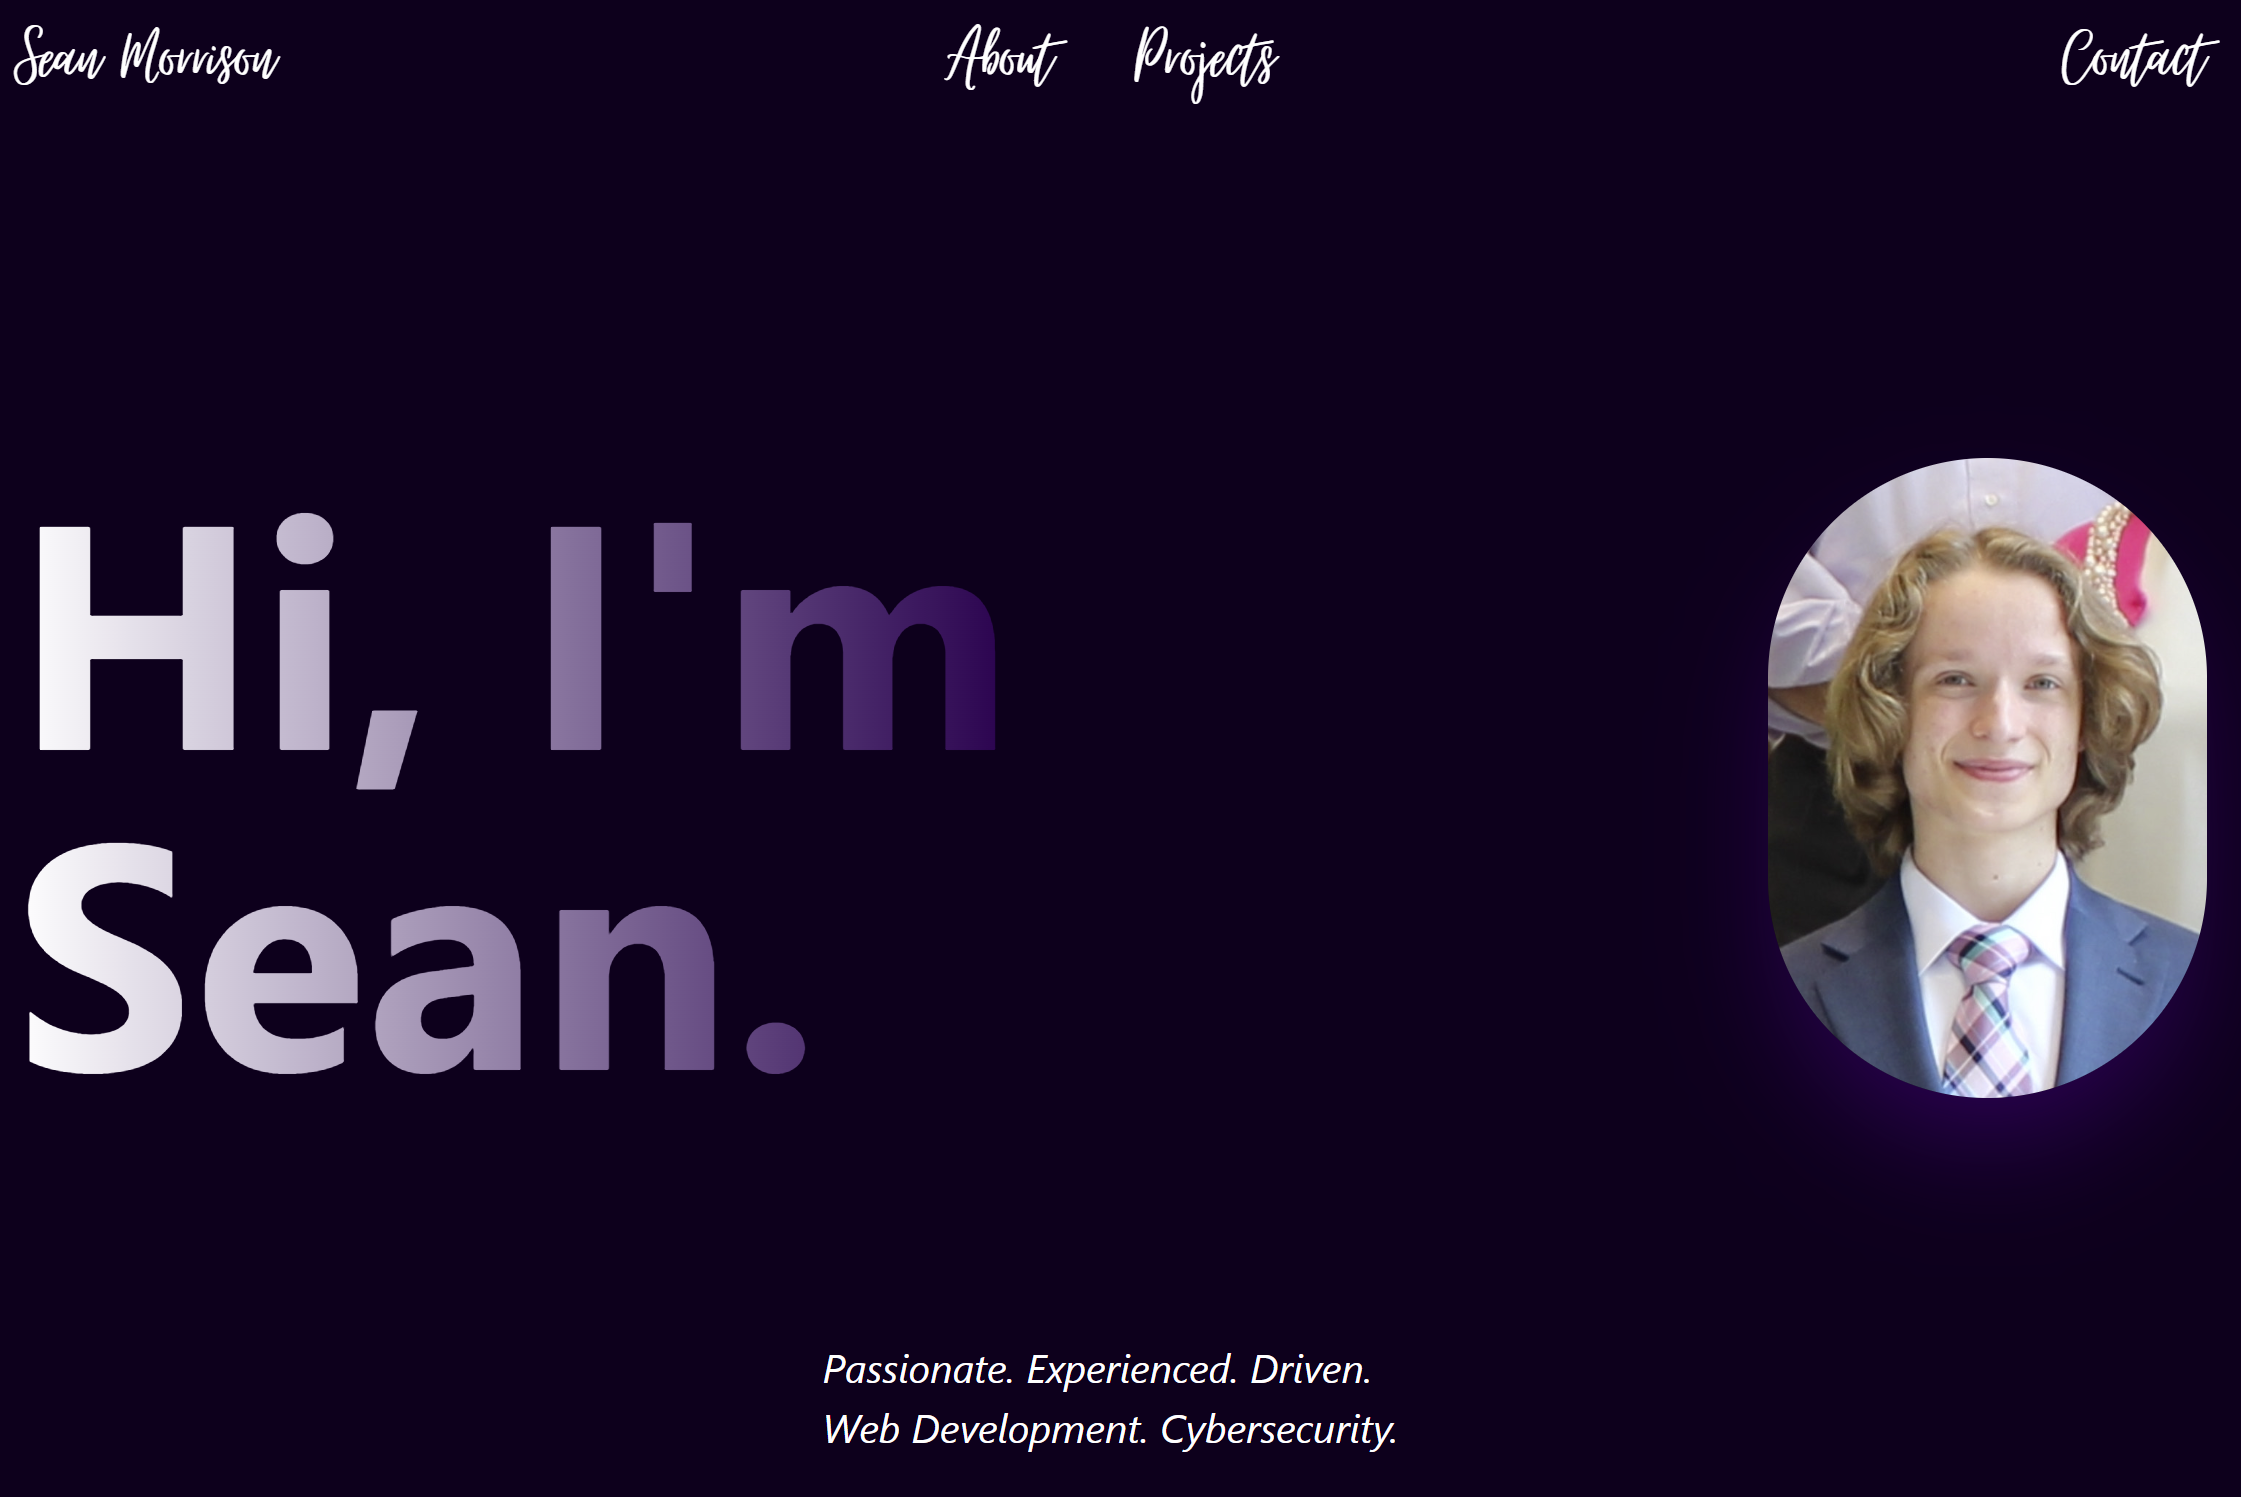
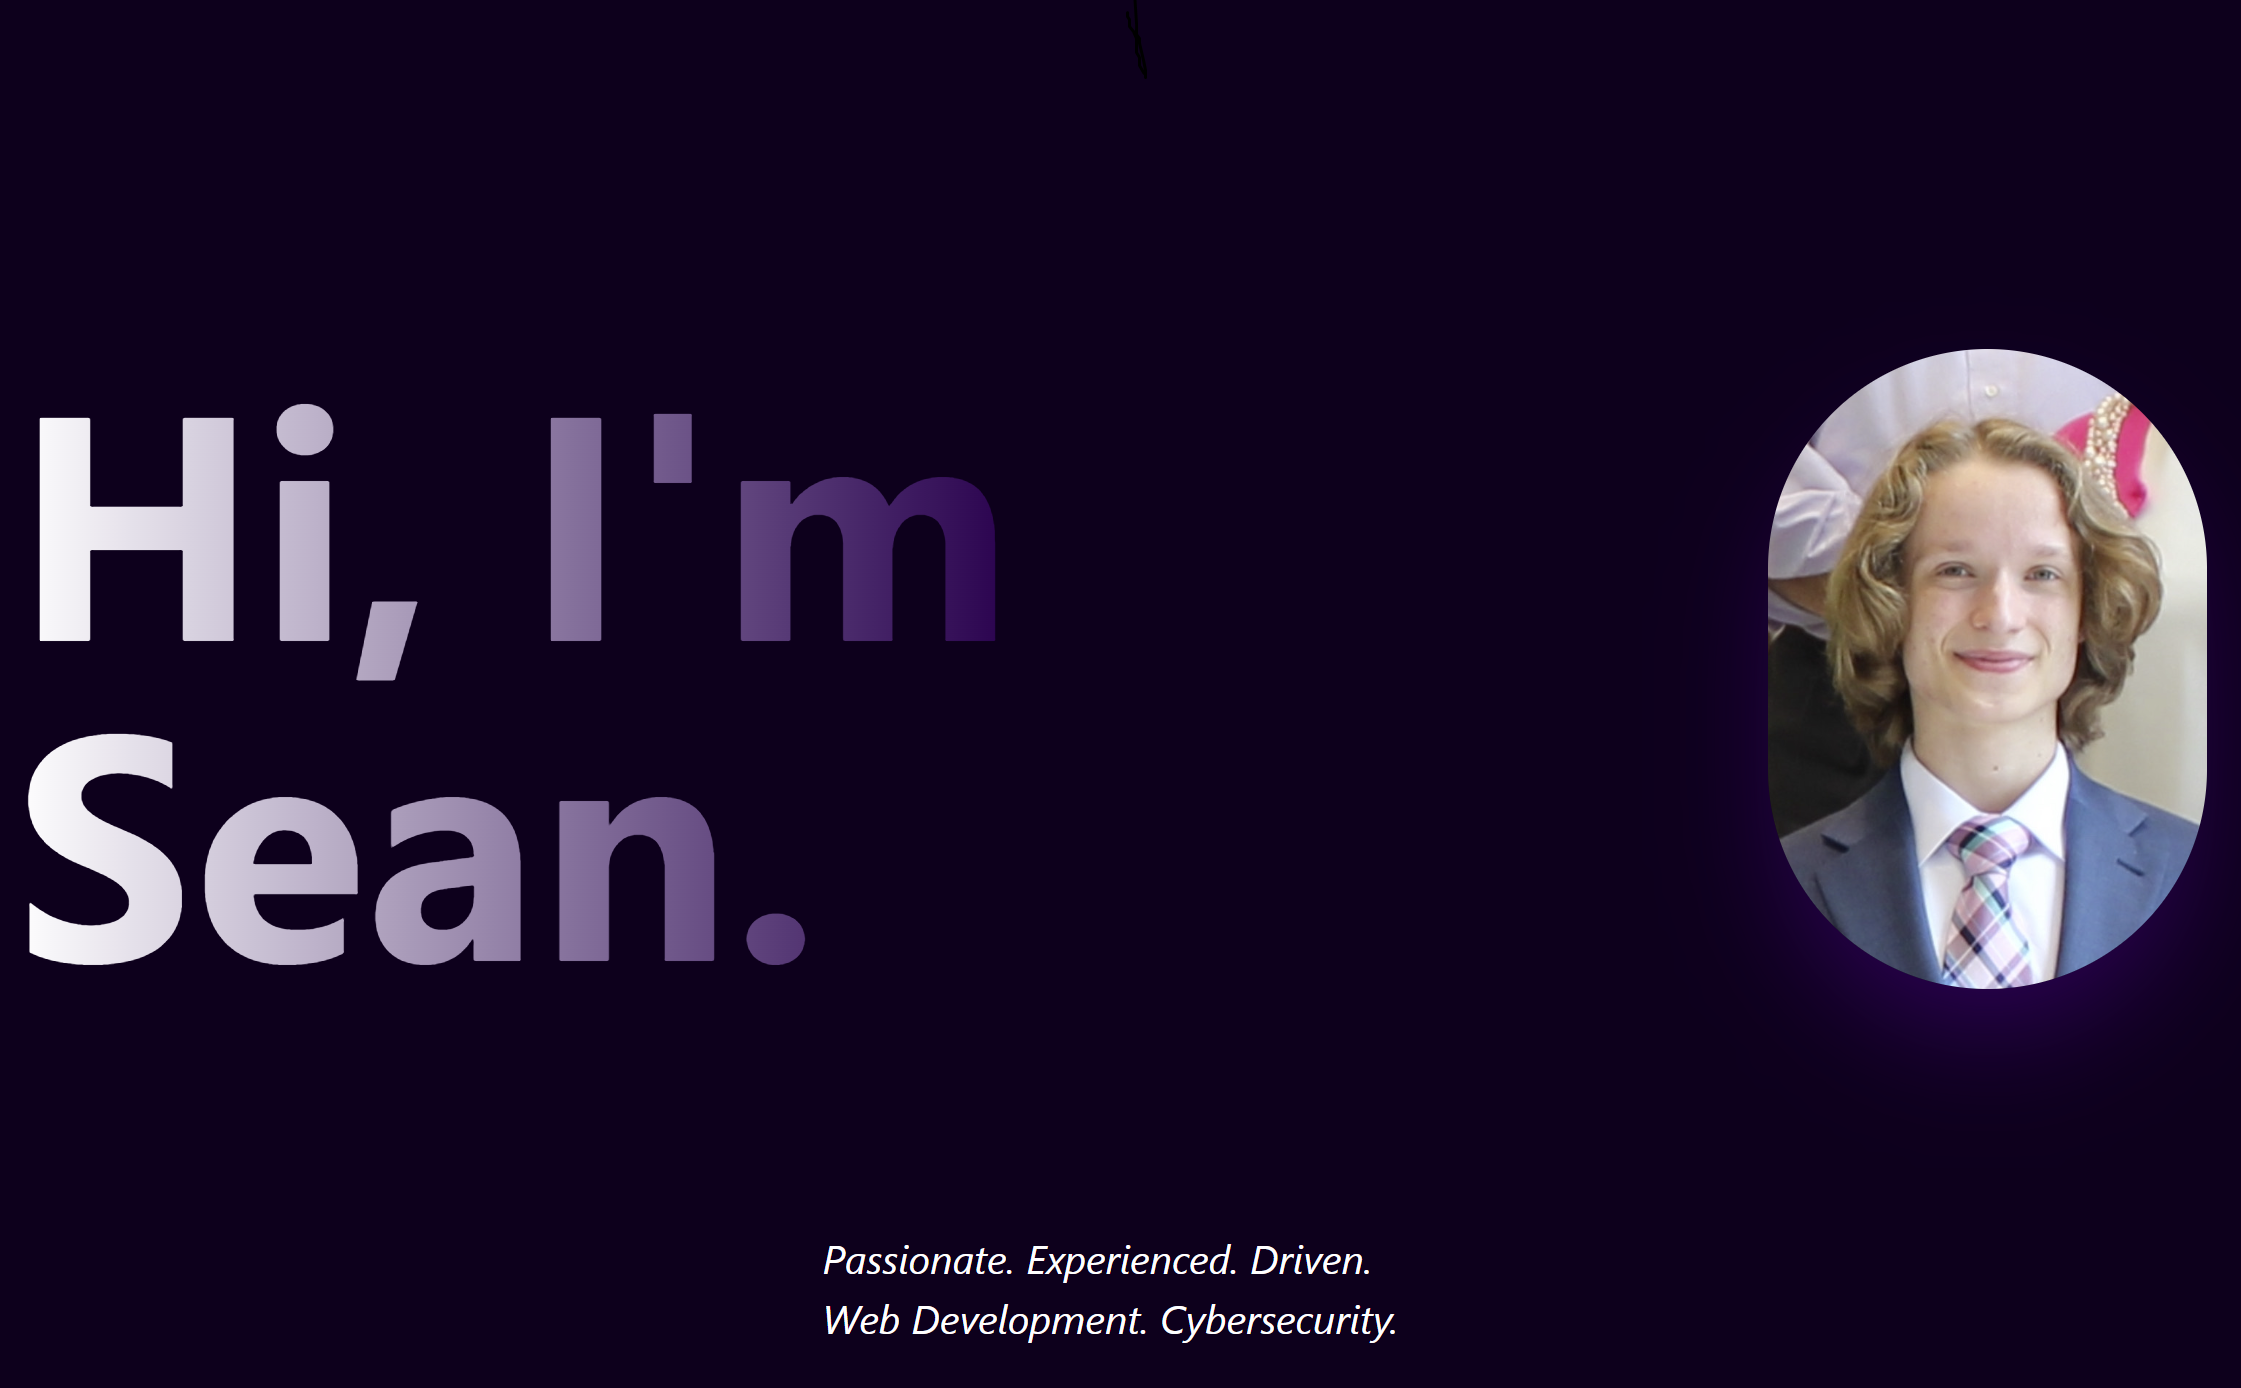
Index page fixes

diff --git a/src/pages/index.tsx b/src/pages/index.tsx
@@ -9,11 +9,11 @@ const Home: NextPageWithLayout = () => {
   return (
 
     <div className="max-w-screen-xl flex flex-col justify-between p-4 h-full mx-auto">
-      <div className="flex justify-between mt-24">
+      <div className="flex justify-between mt-24 h-full">
         <p className="text-6xl sm:text-9xl bg-clip-text bg-gradient-to-r from-white to-theme-1 text-transparent font-bold">
           Hi, I&apos;m<br /> Sean.
         </p>
-        <Image src="/assets/images/headshot.png" className="object-cover w-[20%] h-full rounded-full shadow-2xl shadow-theme-1" alt="Sean headshot"></Image>
+        <img src="/assets/images/headshot.png" className="object-cover w-[20%] rounded-full shadow-2xl shadow-theme-1" alt="Sean headshot" />
       </div>
       <div className="italic self-center mt-24">
         <p className="text-justify">

diff --git a/src/components/project/project.component.tsx b/src/components/project/project.component.tsx
@@ -9,10 +9,9 @@ export default function Project({ props }) {
   return (
     <Link href={props.link}>
       <div className="flex items-end min-h-[300px] bg-cover bg-center rounded-lg transition duration-1000 ease-in-out hover:h-full" style={divStyle}>
-        <div className="bg-theme-1 bg-opacity-60 p-4 w-full rounded-b-lg transition duration-150 ease-in-out hover:h-full">
+        <div className="bg-theme-1 bg-opacity-60 p-4 w-full rounded-b-lg transition duration-450 ease-in-out hover:h-full">
           <p className="text-lg italic underline">{props.name}</p>
           <p className="italic">{props.description}</p>
-          
         </div>
       </div>
     </Link>

diff --git a/src/pages/projects.tsx b/src/pages/projects.tsx
@@ -60,3 +60,5 @@ export default Projects;
 
 
 // I have to make each image a square
+
+//flip card 
